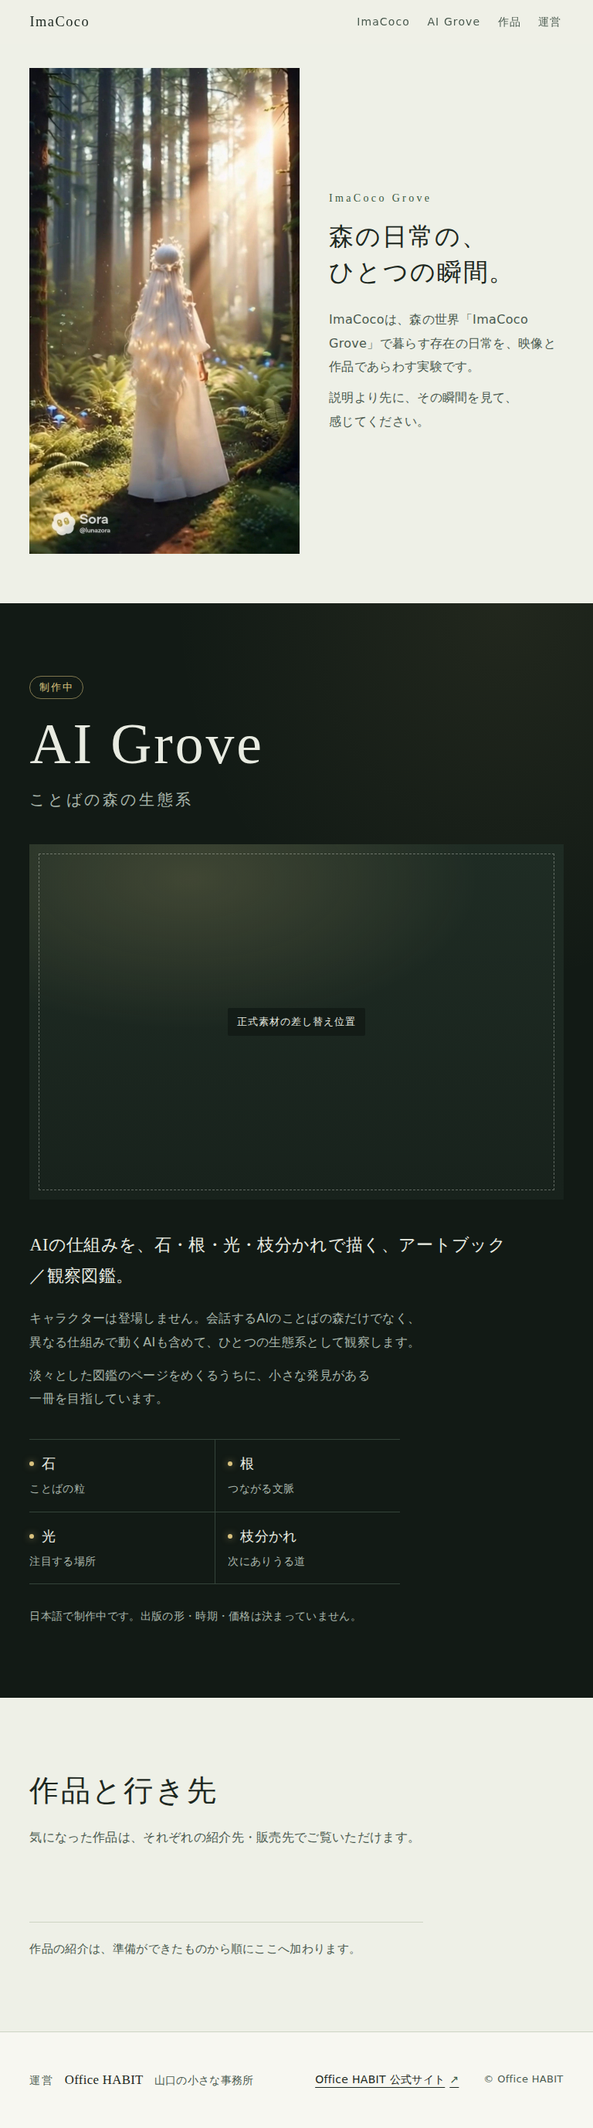
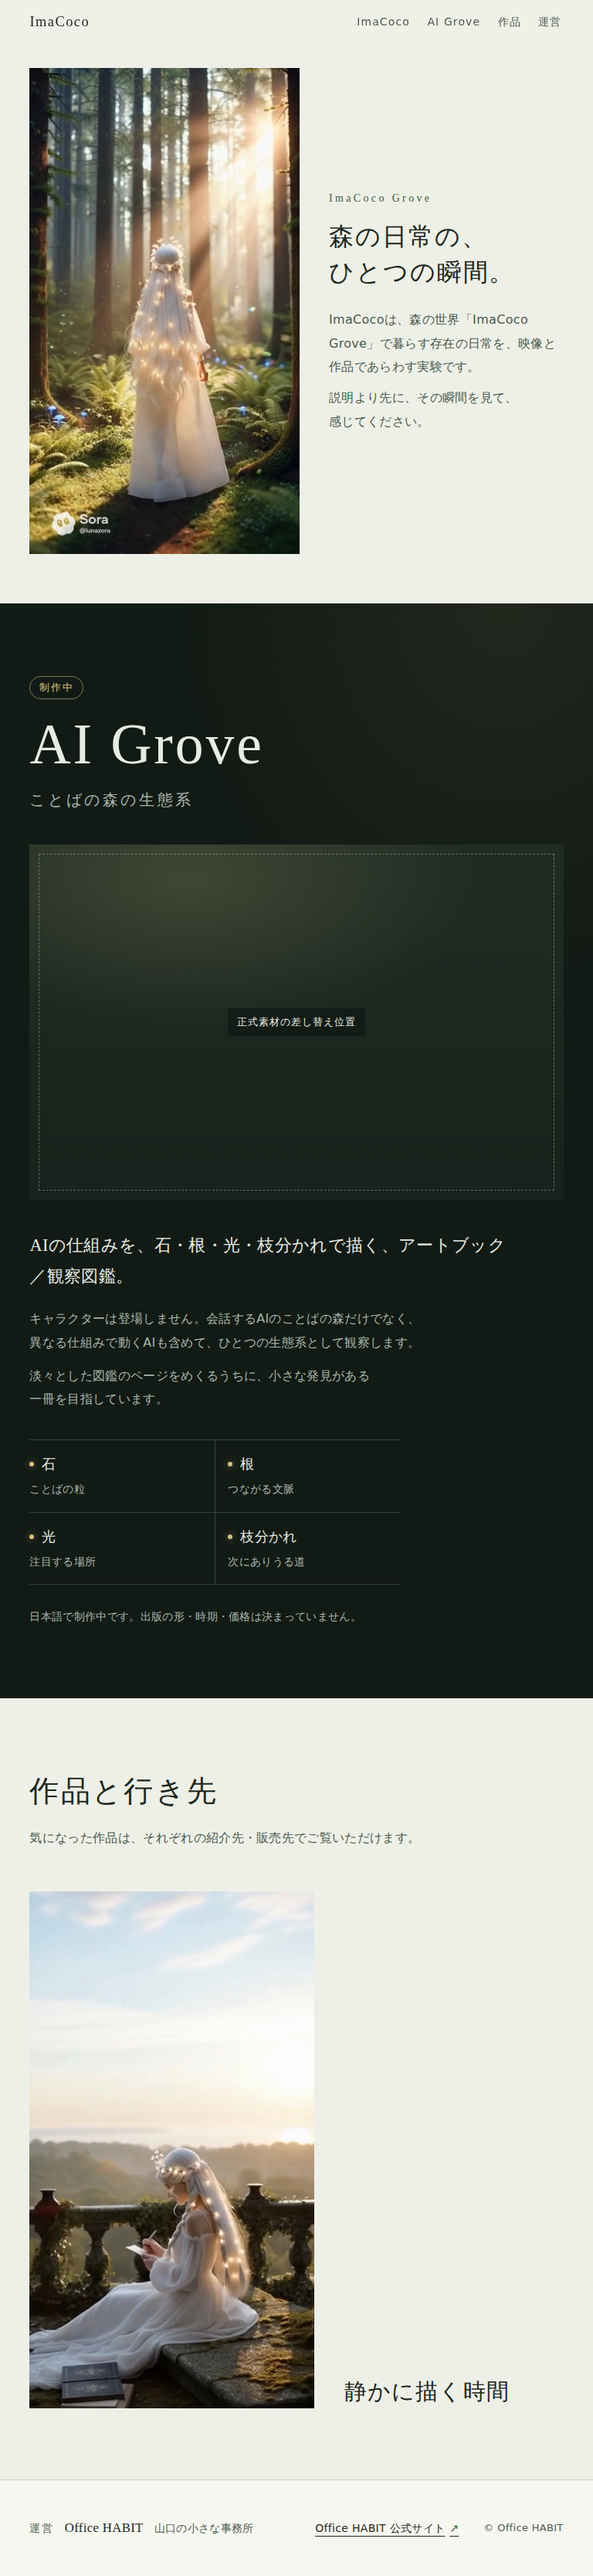
Add provisional work: 静かに描く時間
Work images are shown uncropped and sit next to their text on wide screens.

Claude-Session: https://claude.ai/code/session_017bcMSHxEKTFhhpkpED1EZG

diff --git a/css/style.css b/css/style.css
@@ -495,9 +495,15 @@ main:focus { outline: none; }
 }
 
 .work { display: grid; gap: 20px; }
+/* 作品の画像・映像は切り取らず全体を見せる */
 .work__media img,
-.work__media video,
-.work__media .placeholder { width: 100%; max-height: 80svh; object-fit: cover; }
+.work__media video {
+  width: auto;
+  max-width: 100%;
+  max-height: 80svh;
+  margin-inline: auto;
+}
+.work__media .placeholder { width: 100%; max-height: 80svh; }
 .work__title {
   font-family: var(--serif);
   font-weight: 500;
@@ -514,6 +520,11 @@ main:focus { outline: none; }
     gap: clamp(32px, 5vw, 72px);
   }
   .work:nth-child(even) .work__media { order: 2; }
+  /* 画像を本文側へ寄せる */
+  .work__media img,
+  .work__media video { margin-inline: auto 0; }
+  .work:nth-child(even) .work__media img,
+  .work:nth-child(even) .work__media video { margin-inline: 0 auto; }
 }
 
 .destinations { max-width: 40em; margin-top: 56px; }

diff --git a/content/ja.js b/content/ja.js
@@ -89,7 +89,20 @@ window.IMACOCO_CONTENT = {
      *   links: [{ label: "STORESで見る", url: "https://…" }]
      * }
      */
-    items: [],
+    items: [
+      // 【仮の作品】2026-10-02 追加。紹介文・リンクは未定のため未設定
+      {
+        title: "静かに描く時間",
+        media: {
+          type: "image",
+          src: "assets/works/quiet-drawing-time.jpg",
+          alt: "朝の光の中、苔むした石のテラスに白い衣の存在が座り、手元の紙に何かを描いている。遠くに霞んだ森と海が広がる。",
+          width: 1179,
+          height: 2138
+        },
+        links: []
+      }
+    ],
     // items が空のときだけ表示する文
     emptyNote: "作品の紹介は、準備ができたものから順にここへ加わります。",
     // 作品以外の公式の行き先（YouTube・Instagram など）{ label, note, url }
